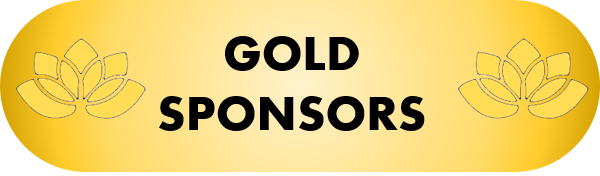
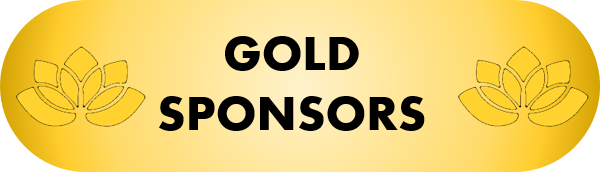
update to sponsors page
added bronze tier
updated golden lotus logo
updated silver tuk tuk logo
added bronze noodles logo

Changed region(s): [[0.75, 0.2273, 0.99, 0.7386], [0.03, 0.2273, 0.24, 0.7386], [0.9, 0.7102, 0.93, 0.7386]]

diff --git a/_includes/sponsors.html b/_includes/sponsors.html
@@ -1,5 +1,3 @@
-<!--<img src="assets/images/pineapple-platinum-sponsor.png" alt="Pineapple Platinum Logo" width="50" height="50" style="vertical-align:middle;margin:10px 10px"><img src="assets/images/platinum-elephant-sponsor.png" alt="Pineapple Platinum Logo" width="50" height="50" style="vertical-align:middle;margin:10px 10px"><img src="assets/images/pineapple-platinum-sponsor.png" alt="Pineapple Platinum Logo" width="50" height="50" style="vertical-align:middle;margin:10px 10px"><img src="assets/images/platinum-elephant-sponsor.png" alt="Pineapple Platinum Logo" width="50" height="50" style="vertical-align:middle;margin:10px 10px"><img src="assets/images/pineapple-platinum-sponsor.png" alt="Pineapple Platinum Logo" width="50" height="50" style="vertical-align:middle;margin:10px 10px"><img src="assets/images/platinum-elephant-sponsor.png" alt="Pineapple Platinum Logo" width="50" height="50" style="vertical-align:middle;margin:10px 10px"><img src="assets/images/pineapple-platinum-sponsor.png" alt="Pineapple Platinum Logo" width="50" height="50" style="vertical-align:middle;margin:10px 10px"><img src="assets/images/platinum-elephant-sponsor.png" alt="Pineapple Platinum Logo" width="50" height="50" style="vertical-align:middle;margin:10px 10px"><img src="assets/images/pineapple-platinum-sponsor.png" alt="Pineapple Platinum Logo" width="50" height="50" style="vertical-align:middle;margin:10px 10px"><img src="assets/images/platinum-elephant-sponsor.png" alt="Pineapple Platinum Logo" width="50" height="50" style="vertical-align:middle;margin:10px 10px">
--->
 <img src="assets/images/platinum-elephant-sponsor.png" alt="Platinum Elephant Logo" width="150" height="50" style="vertical-align:middle;margin:11px 11px"><img src="assets/images/platinum-elephant-sponsor.png" alt="Platinum Elephant Logo" width="150" height="50" style="vertical-align:middle;margin:11px 11px"><img src="assets/images/platinum-elephant-sponsor.png" alt="Platinum Elephant Logo" width="150" height="50" style="vertical-align:middle;margin:11px 11px"><img src="assets/images/platinum-elephant-sponsor.png" alt="Platinum Elephant Logo" width="150" height="50" style="vertical-align:middle;margin:11px 11px">
 
   {% if site.data.conference.1sponsors == nil %}
@@ -31,8 +29,8 @@
         </div>
         {% endif %}
 </div>
-
-<img src="assets/images/silver-sponsor.png" alt="Silver sponsor Logo" width="50" height="50" style="vertical-align:middle;margin:10px 10px"><img src="assets/images/silver-sponsor.png" alt="Silver sponsor Logo" width="50" height="50" style="vertical-align:middle;margin:10px 10px"><img src="assets/images/silver-sponsor.png" alt="Silver sponsor Logo" width="50" height="50" style="vertical-align:middle;margin:10px 10px"><img src="assets/images/silver-sponsor.png" alt="Silver sponsor Logo" width="50" height="50" style="vertical-align:middle;margin:10px 10px"><img src="assets/images/silver-sponsor.png" alt="Silver sponsor Logo" width="50" height="50" style="vertical-align:middle;margin:10px 10px"><img src="assets/images/silver-sponsor.png" alt="Silver sponsor Logo" width="50" height="50" style="vertical-align:middle;margin:10px 10px"><img src="assets/images/silver-sponsor.png" alt="Silver sponsor Logo" width="50" height="50" style="vertical-align:middle;margin:10px 10px"><img src="assets/images/silver-sponsor.png" alt="Silver sponsor Logo" width="50" height="50" style="vertical-align:middle;margin:10px 10px"><img src="assets/images/silver-sponsor.png" alt="Silver sponsor Logo" width="50" height="50" style="vertical-align:middle;margin:10px 10px"><img src="assets/images/silver-sponsor.png" alt="Silver sponsor Logo" width="50" height="50" style="vertical-align:middle;margin:10px 10px">
+<div style="text-align: justify">
+<img src="assets/images/silver-tuk-tuk-sponsor.png" alt="Silver sponsor Logo" width="150" height="50" style="vertical-align:middle;margin:11px 11px"><img src="assets/images/silver-tuk-tuk-sponsor.png" alt="Silver sponsor Logo" width="150" height="50" style="vertical-align:middle;margin:11px 11px"><img src="assets/images/silver-tuk-tuk-sponsor.png" alt="Silver sponsor Logo" width="150" height="50" style="vertical-align:middle;margin:11px 11px"><img src="assets/images/silver-tuk-tuk-sponsor.png" alt="Silver sponsor Logo" width="150" height="50" style="vertical-align:middle;margin:11px 11px">
 
     {% if site.data.conference.3sponsors == nil %}
         <div class="alert alert-warning rounded text-center m-1">
@@ -45,5 +43,21 @@
             {% endfor %}
         </div>
         {% endif %}
+</div>
+<div style="text-align: justify">
+<img src="assets/images/bronze-noodles-sponsor.png" alt="Bronze sponsor Logo" width="150" height="50" style="vertical-align:middle;margin:11px 11px"><img src="assets/images/bronze-noodles-sponsor.png" alt="Bronze sponsor Logo" width="150" height="50" style="vertical-align:middle;margin:11px 11px"><img src="assets/images/bronze-noodles-sponsor.png" alt="Bronze sponsor Logo" width="150" height="50" style="vertical-align:middle;margin:11px 11px"><img src="assets/images/bronze-noodles-sponsor.png" alt="Bronze sponsor Logo" width="150" height="50" style="vertical-align:middle;margin:11px 11px">
+
+  {% if site.data.conference.1sponsors == nil %}
+        <div class="alert alert-warning rounded text-center m-1">
+            <p>TBA</p>
+        </div>
+        {% else %}
+        <div>
+            {% for 1sponsor in site.data.conference.1sponsors %}
+                <a href="{{ 4sponsor.link }}" target=_blank><img style="vertical-align:middle;margin:10px 10px" width="200" src="{{ site.baseurl }}{{ 4sponsor.logo_path }}" alt="{{ 4sponsor.name }}"></a>
+            {% endfor %}
+        </div>
+        {% endif %}
+</div>
 <br>
 <br>

diff --git a/sponsorship.html b/sponsorship.html
@@ -18,6 +18,14 @@ slide_id: 5
 		<div class="col text-muted">
 			<div class="text-info"><h4>GSC 23-Thailand Sponsorship Opportunities:</h4></div>
 <!-- add in a bronze level 1000-->
+			<div class="text-info"><h5>Bronze Sponsor</h5></div>
+<p>Bronze ($1,000) sponsors will receive the following benefits: 
+<ol>
+  <li>Acknowledgment of your sponsorship on the GSC (www.gensc.org), including links to your company’s website.</li>
+<li>Inclusion of the sponsor’s logo in meeting materials.</li>
+</ol>
+		</div> 
+		<div class="col text-muted">
 			<div class="text-info"><h5>Silver Sponsor</h5></div>
 <p>Silver ($2,500) sponsors will receive the following benefits: 
 <ol>
@@ -29,7 +37,6 @@ slide_id: 5
 <li>Signage at meeting</li>
 </ol> 
 		</div>
-
 		<div class="col text-muted">
 			<div class="text-info"><h5>Gold Sponsor</h5></div>
 <p>Gold ($5,000) sponsors will receive the following benefits: </p>
